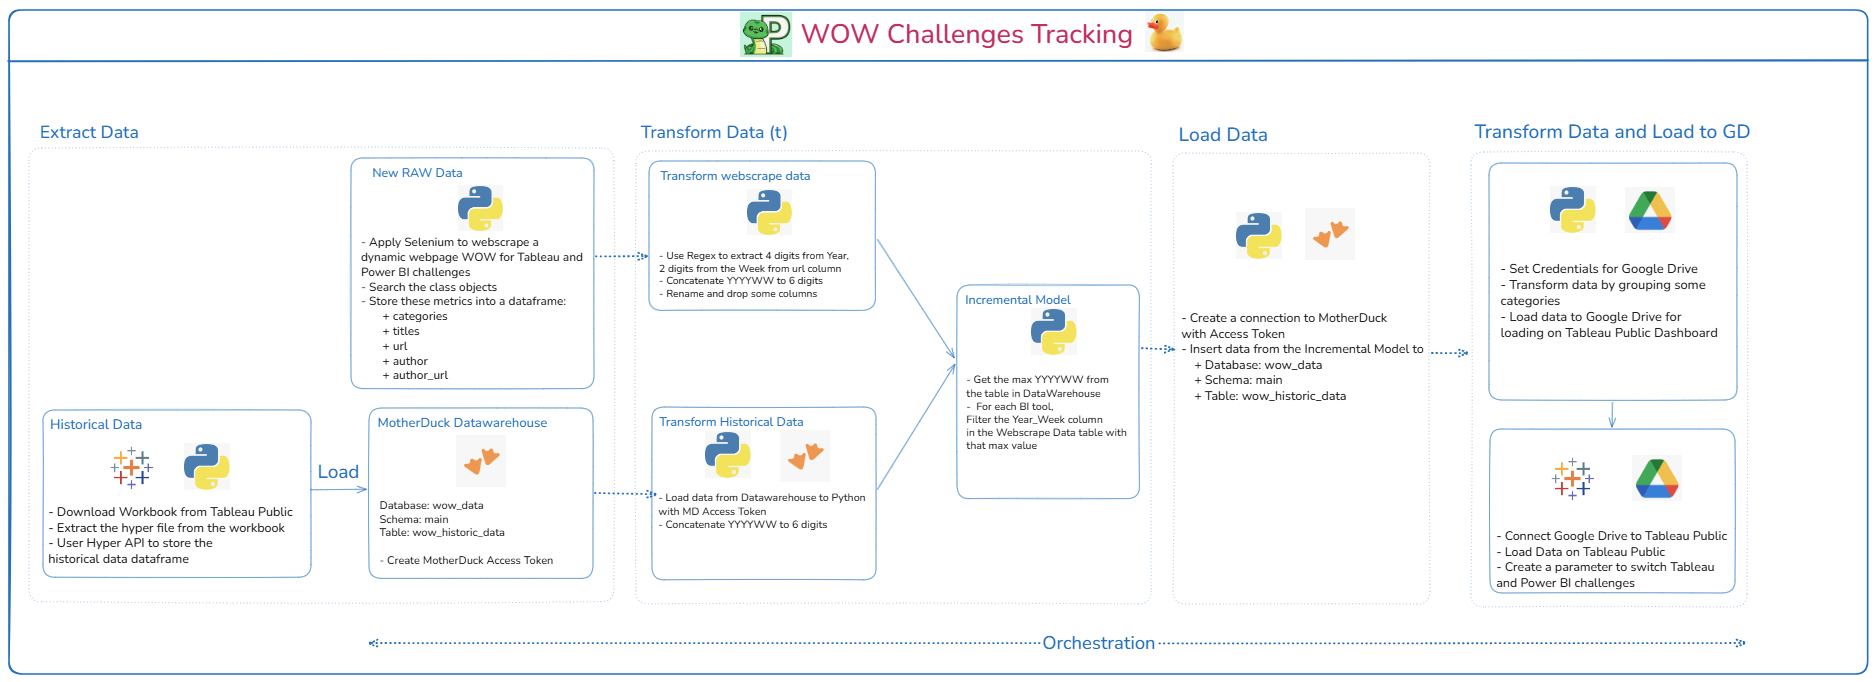
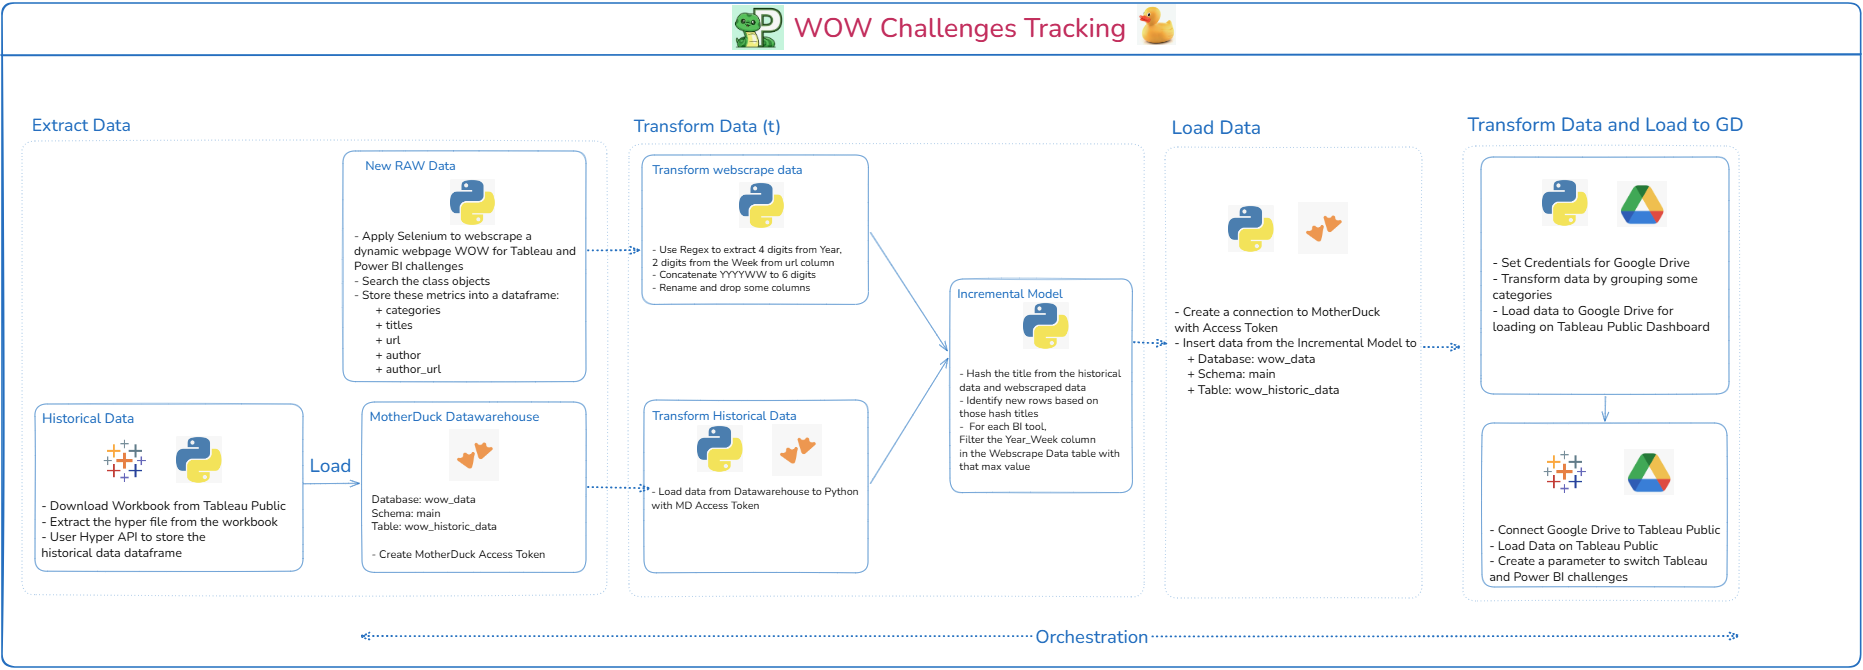
Fixed the README file and the pipeline image

diff --git a/README.md b/README.md
@@ -17,9 +17,11 @@ The pipeline automatically collects the new published Workout Wednesday challeng
 <img src="https://github.com/le-luu/WOW_Tracking_Project/blob/main/img/pipeline.png"  />
 
 ## Architecture
+
 The whole data pipeline consists of five stages:
 
 ### 1. Extract
+
 The historical data was extract from a static WOW page before. Then, the dashboard was built based on that historical data. Later, the WOW page was updated to a dynamic webpage. To extract the data from a dynamic webpage, the project used Selenium package in Python to webscape both Power BI and Tableau challenges. In the stage, it will collect:
 
 - Challenge Categories
@@ -32,10 +34,10 @@ The historical data was extract from a static WOW page before. Then, the dashboa
 The historical data was extracted from the Tableau Dashboard before. Then, it was uploaded into a data warehouse (MotherDuck). In the project, pulling the historical data to help deciding the latest challenge on the warehouse. Later, it will be helpful for the incremental model in loading.
 
 ### 2. Transform
+
 In this stage, the data after extracting from the webpage will be cleaned and transformed:
 
 - Extract week, year number using REGEX
-- Convert the challenge date to YYYYWW format
 - Rename columns
 - Remove unnecessary columns
 - Ensure that the schema and data type of each column matched with the schema of the historical data on the data warehouse
@@ -43,11 +45,12 @@ In this stage, the data after extracting from the webpage will be cleaned and tr
 **Incremental Processing**
 To avoid duplicate records and keep tracking the latest challenge:
 
-- Retrieve the latest YYYYWW value from the warehouse
-- Compare it with the latest webscraped data
+- Hash the title of the historical data and the hash title of the webscraped data
+- Identity the new challenge by comparing those 2 hash
 - Keep only records that are newer than the latest loaded challenge
 
 ### 3. Load
+
 From the incremental data, processed records are loaded into a data warehouse (MotherDuck). Then, it will turn into a historical data.
 
 - Database: wow_data
@@ -55,6 +58,7 @@ From the incremental data, processed records are loaded into a data warehouse (M
 - Table: wow_historic_data
 
 ### 4. Dashboard Publishing
+
 After the whole data is existed in the data warehouse, need to store that data in Google Drive to update the Tableau dashboard on Tableau Public automatically.
 Check this link for more info: https://help.tableau.com/current/pro/desktop/en-us/public_faq.htm#What9
 
@@ -65,7 +69,8 @@ Check this link for more info: https://help.tableau.com/current/pro/desktop/en-u
 Link to the Tableau Public Dashboard: https://public.tableau.com/app/profile/le.luu/viz/Wow_tracking_challenges/WOWTableauTracker_copy
 
 ### 5. CI/CD Automation
-After completing the pipeline, to keep the data is updated automatically, need an orchestration process. This project used Github Actions to automate the workflow. Need to set the yaml file to trigger the process. 
+
+After completing the pipeline, to keep the data is updated automatically, need an orchestration process. This project used Github Actions to automate the workflow. Need to set the yaml file to trigger the process.
 Check this link: https://thedataschool.co.uk/le-luu/des-orchestration-and-trigger-setup/?ref=thedataschool.co.uk
 
 In this project, Github actions will help to:
@@ -78,6 +83,7 @@ In this project, Github actions will help to:
 - Update the dashboard data source
 
 ### Tools
+
 | Stage           | Tool              | Purpose                                                         |
 | --------------- | ----------------- | --------------------------------------------------------------- |
 | Extract         | Python            | Core scripting language                                         |
@@ -91,4 +97,3 @@ In this project, Github actions will help to:
 | Visualization   | Tableau Desktop   | Build and publish dashboard                                     |
 | Automation      | GitHub Actions    | Schedule and automate ETL workflow                              |
 | Version Control | Git & GitHub      | Source code management                                          |
-
